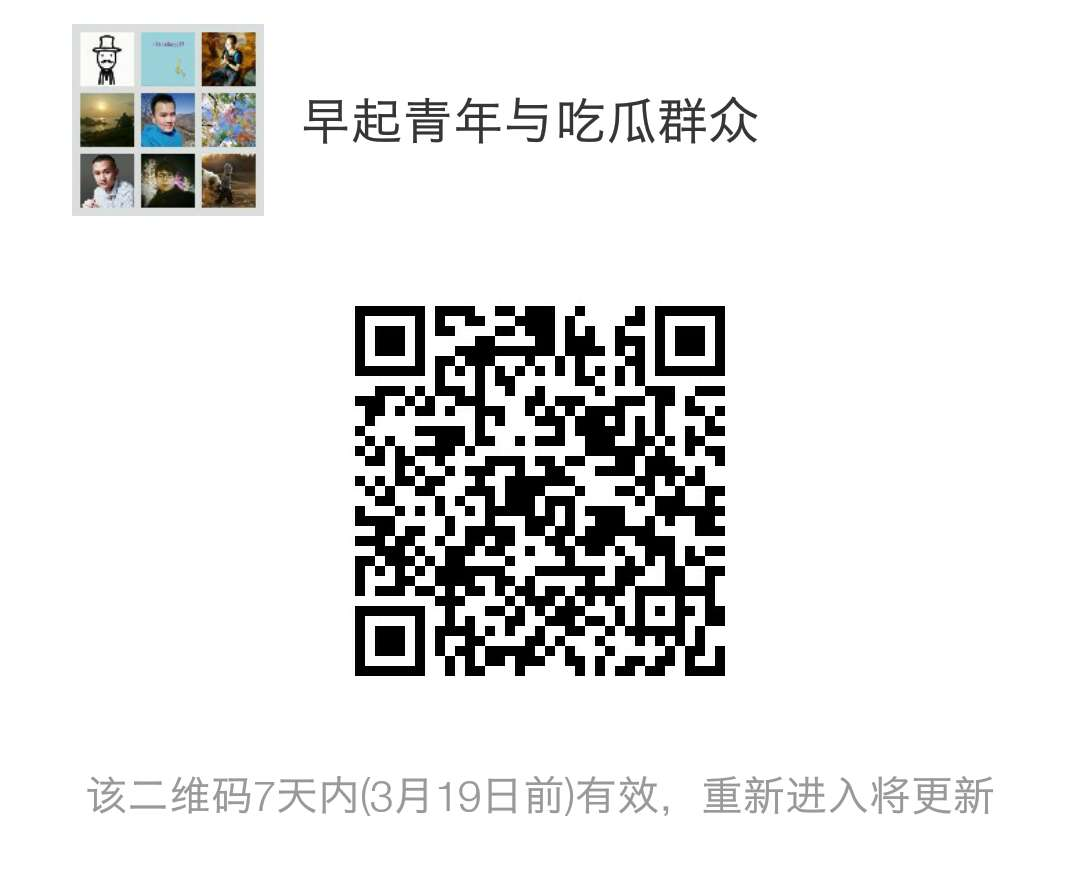
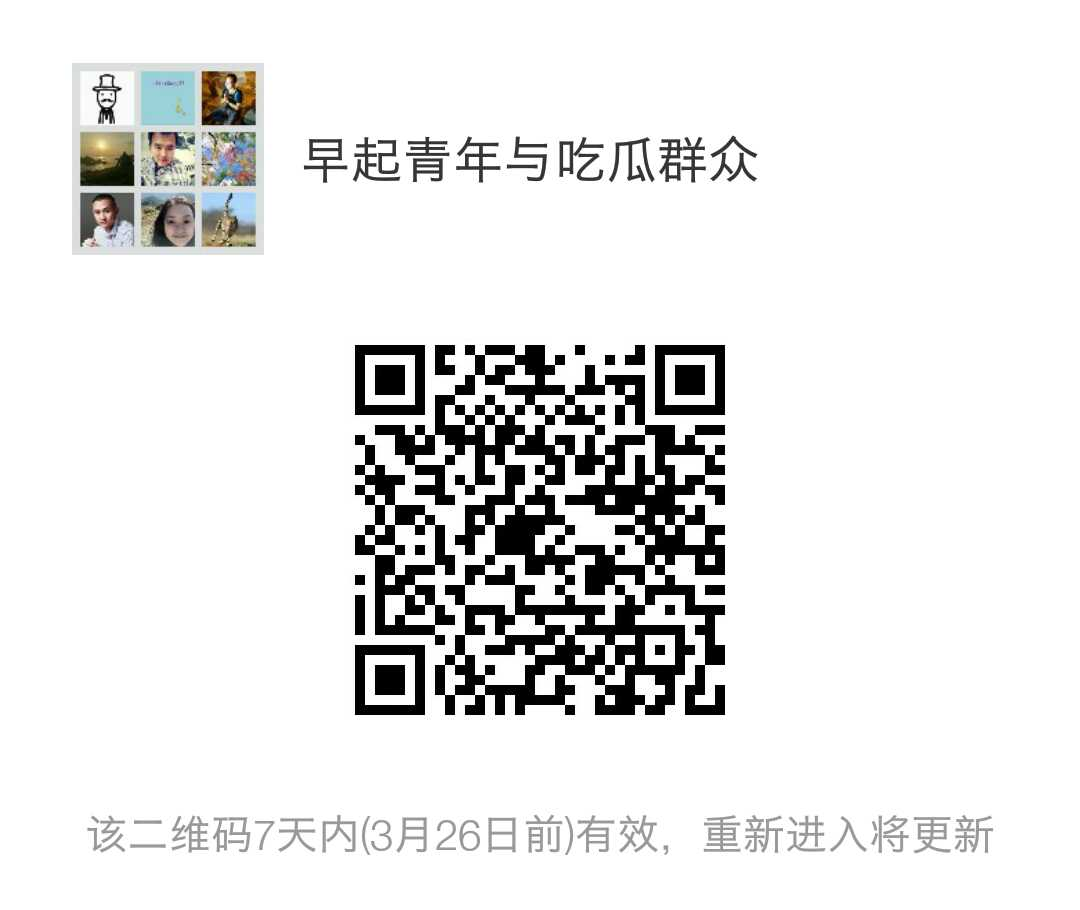
理性更新

diff --git a/README.md b/README.md
@@ -106,7 +106,12 @@
 * 早起青年们共发出红包11次，累计220元。
 
 #### 201703012 第十周
-* 早起青年22人（减少人），吃瓜群众5人
+* 早起青年22人（减少1人），吃瓜群众5人
+* 本周每天都按时打卡的人共18人，占比81.8%。
+* 早起青年们共发出红包7次，累计140元。
+
+#### 201703019 第十一周
+* 早起青年22人，吃瓜群众3人（减少2人）
 * 本周每天都按时打卡的人共18人，占比81.8%。
 * 早起青年们共发出红包7次，累计140元。
 
